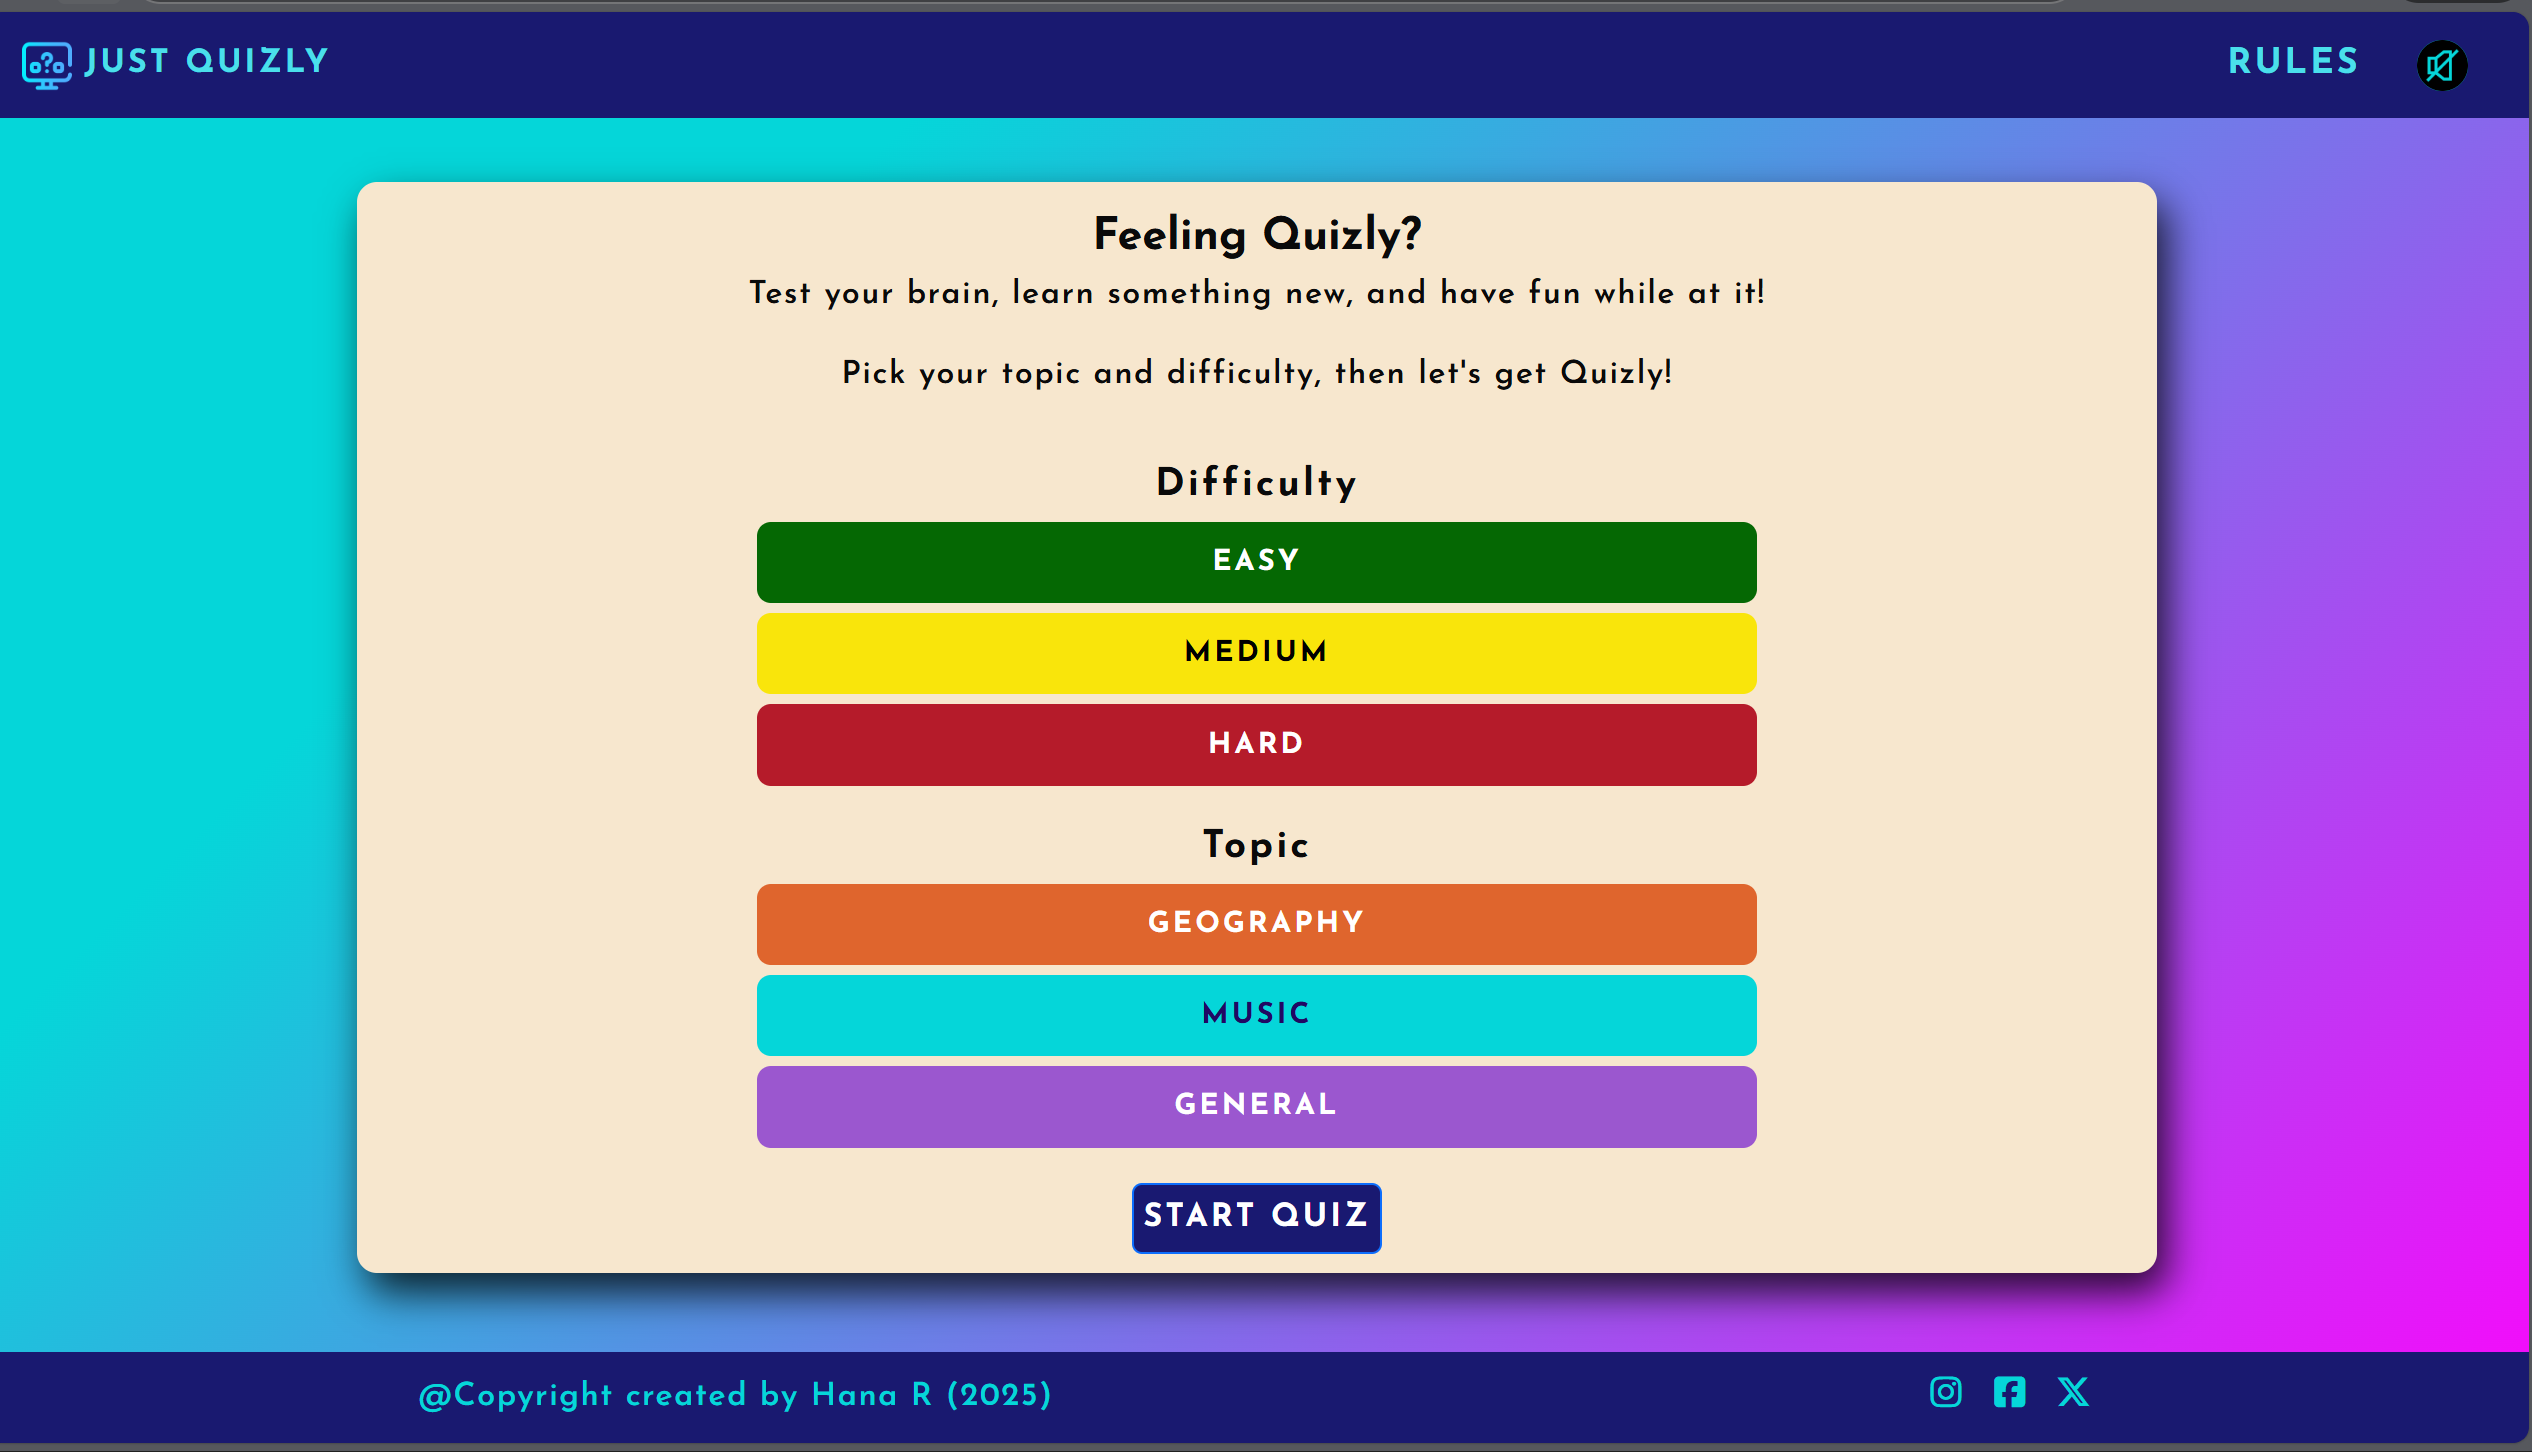
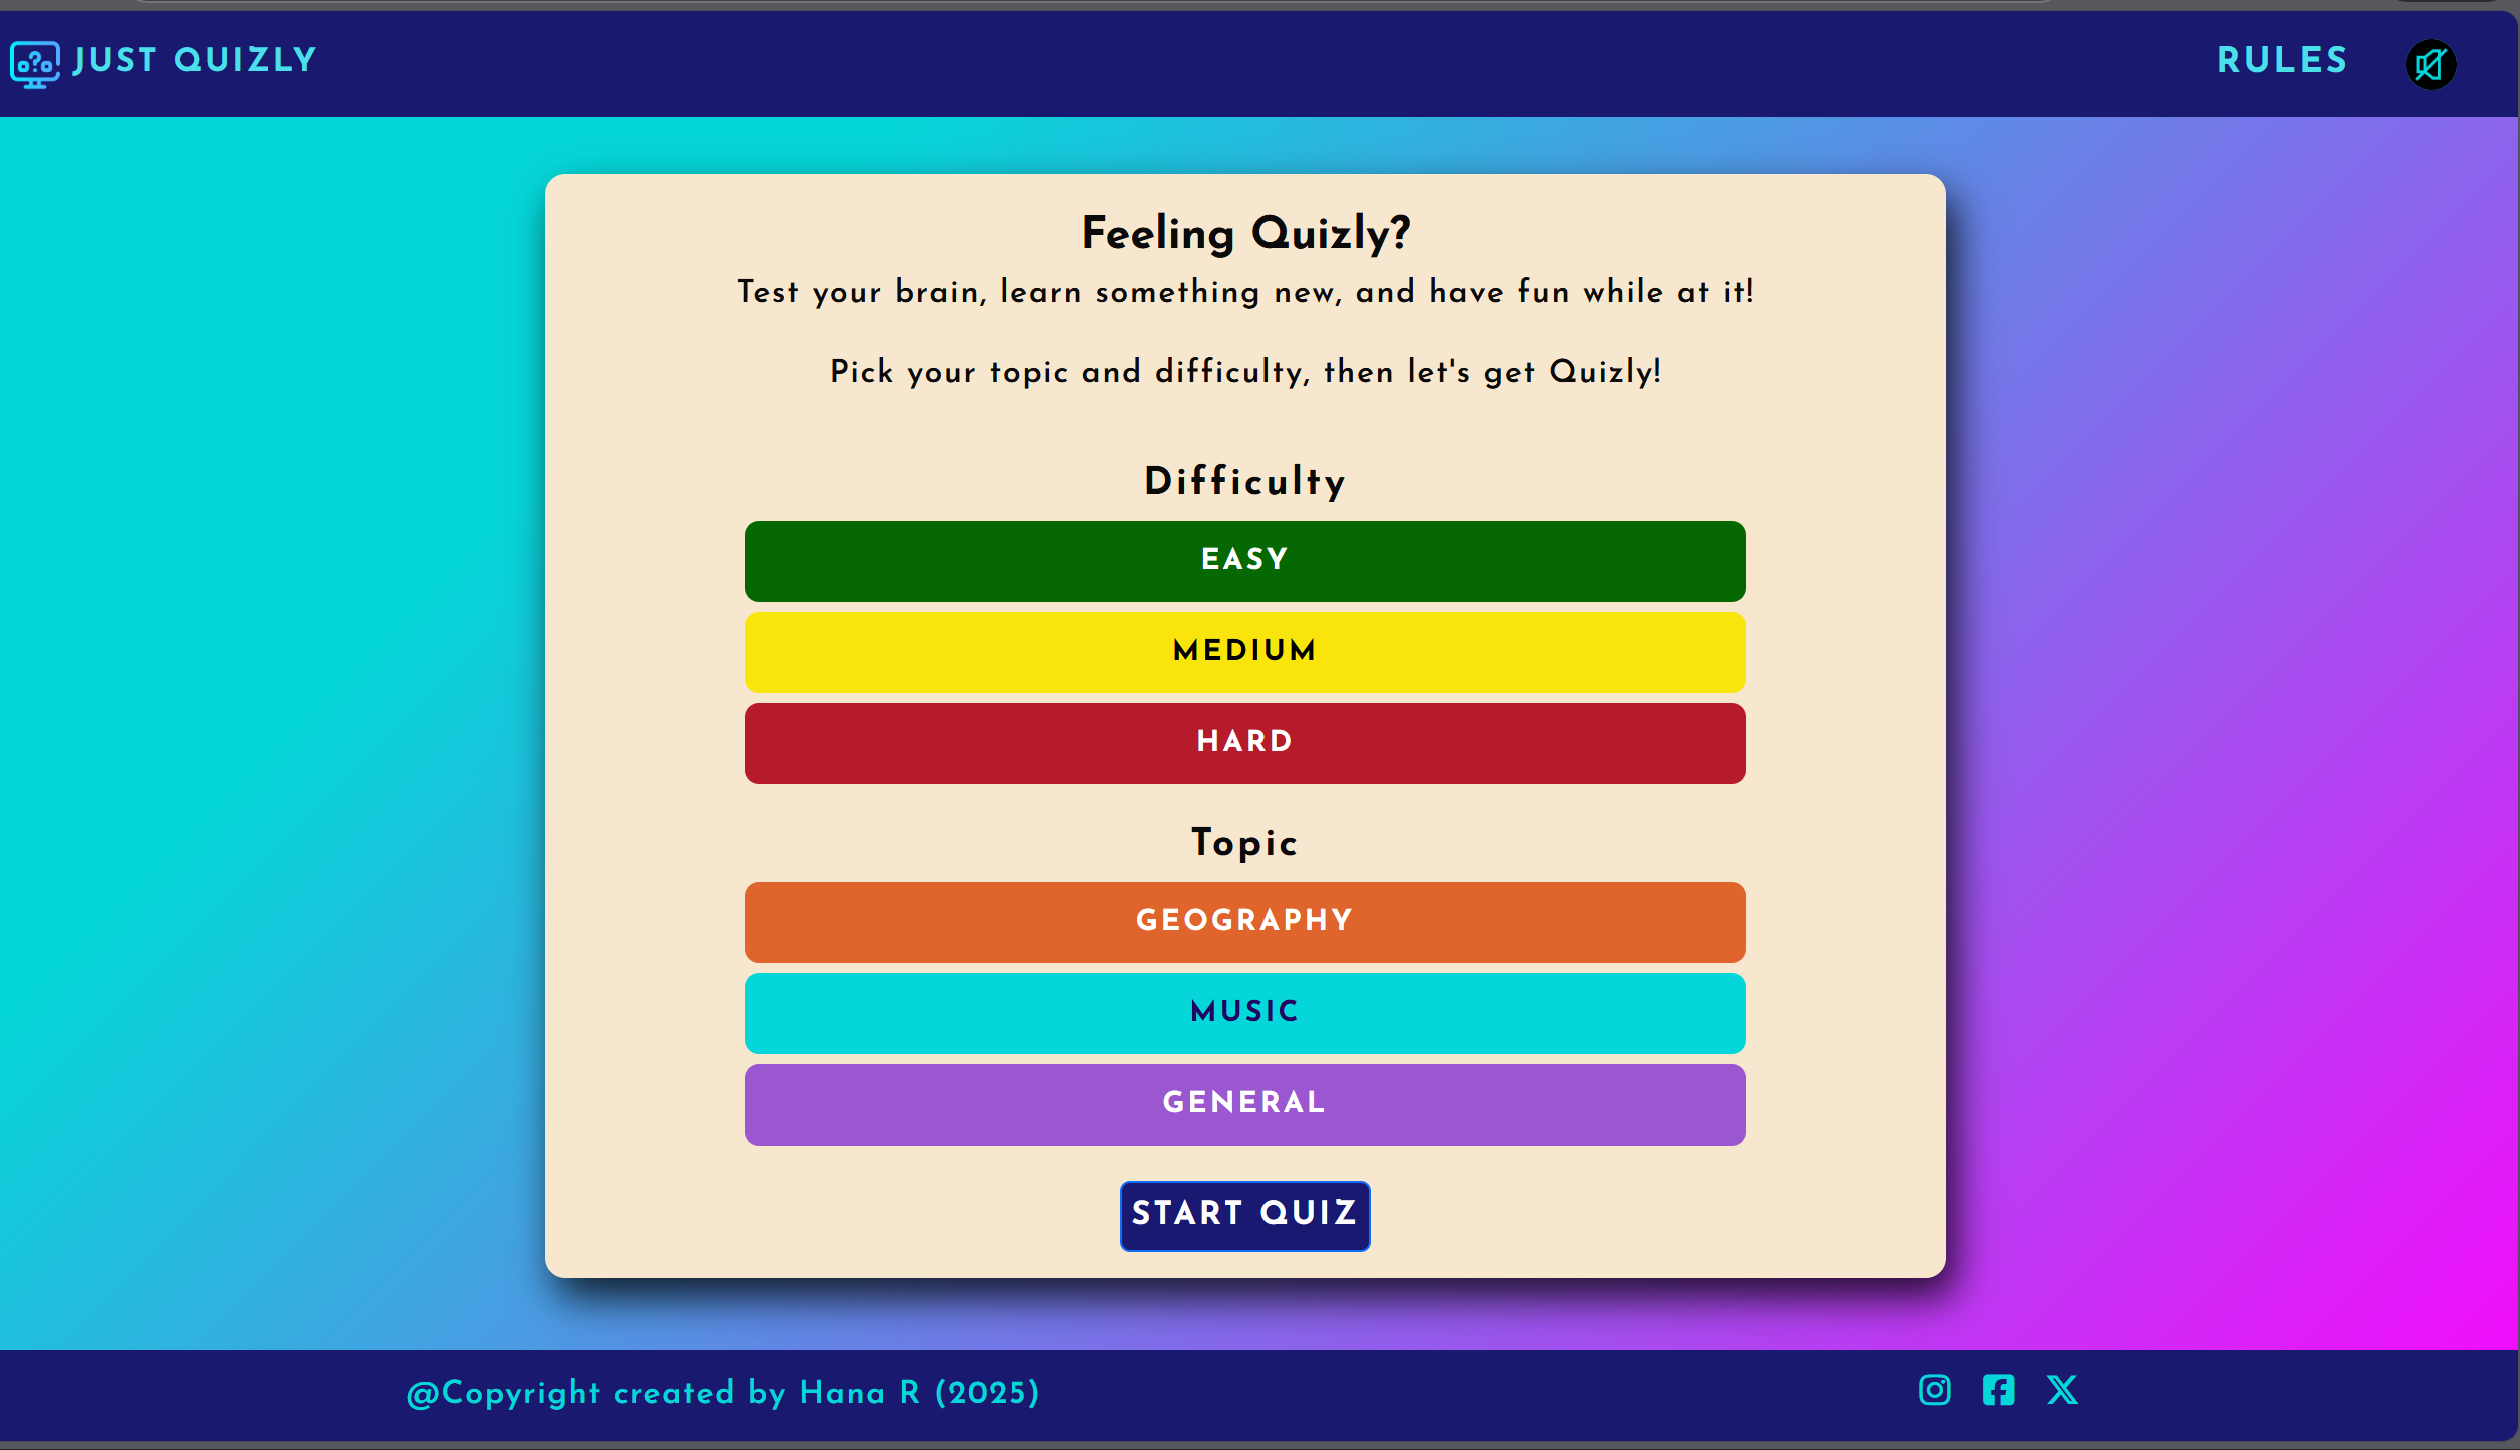
Add responsiveness screenshots for quiz page

diff --git a/assets/css/style.css b/assets/css/style.css
@@ -711,7 +711,7 @@ nav {
     margin: 0;
     width: 90%;
     flex-shrink: 1;
-    height: 80vh;
+    height: 70vh;
 
   }
 
@@ -870,7 +870,7 @@ nav {
   .custom-btn-answer{
     padding: 1rem;
     margin: 1rem auto;
-    max-width: 500px;
+    max-width: 400px;
   }
 
 .start-btn {
@@ -1000,13 +1000,9 @@ nav {
     font-size: 1.1rem;
     line-height: 1.8;
   
-    
-    
   }
 
-
   /* main page */
-
 
   .question-text {
     font-size: 1.5rem;
@@ -1025,18 +1021,14 @@ nav {
   .custom-btn-restart, .start-btn {
     font-size: 1rem;
 
-  
   }
-  .container {
-    padding: 1rem;
-  }
+
   .container-quiz, .start-screen, .container-end{
     
     max-width: 600px;
     width: 100%;
     padding: 0.6rem 0.9rem;
-    
-    
+     
   }
    .answers-container {
     display: grid;
@@ -1045,6 +1037,7 @@ nav {
     gap: 10px;
     
    }
+
  .custom-btn-answer {
   margin: 0 auto;
   width:100%;
@@ -1054,13 +1047,14 @@ nav {
  #mute-icon {
   width:1.6rem;
  }
+
  .navbar, .footer {
   padding: 0.4rem;
  }
 
  .container {
-  padding: 0.4rem;
-  max-width: 900px;
+  padding: 0.6rem 0;
+  max-width: 700px;
  }
 
  .start-screen h2 {
@@ -1146,10 +1140,10 @@ font-size: 1.3rem;
   width: 28px;
 }
 
-.quiz-info {
-  margin-bottom: 0;
-  padding-bottom: 0;
-  
+.question-text {
+  margin-bottom: 1rem;
+  padding-bottom: 1rem;
+  max-width: 700px;
 }
 
 .answers-container{
@@ -1157,8 +1151,8 @@ font-size: 1.3rem;
     flex-direction: column;  
     justify-content: center;
     align-items: center;
-    width: 80%;
-    height: 60vh;  
+    width: 90%;
+    height: auto;  
     padding: 0 0.6rem;
      
   }
@@ -1170,7 +1164,9 @@ font-size: 1.3rem;
   }
 .container-quiz, .container {
       width: 80%;
-      padding: 0.5rem 0; 
+      padding: 1.2rem 0; 
+      height: auto;
+      
      
   }
 
@@ -1190,7 +1186,7 @@ font-size: 1.3rem;
 }
 
 .quiz-info p {
-  margin: 0;
+  margin: 1.4rem;
   font-size: 1.3rem;
   font-weight: 600;
 

diff --git a/TESTING.md b/TESTING.md
@@ -123,7 +123,7 @@ I've tested my deployed project to check for responsiveness issues.
 | Page | Mobile | Tablet | Desktop | Notes |
 | --- | --- | --- | --- | --- |
 | Home | ![screenshot](documentation/responsiveness/screenshot-home-mobile.png) | ![screenshot](documentation/responsiveness/screenshot-home-tablet.png) | ![screenshot](documentation/responsiveness/screenshot-home-desktop.png) | Works as expected |
-| Quiz | ![screenshot](documentation/responsiveness/screenshot-mobile-quiz-page.png) | ![screenshot](documentation/responsiveness/tablet-game.png) | ![screenshot](documentation/responsiveness/desktop-game.png) | Works as expected |
+| Quiz | ![screenshot](documentation/responsiveness/screenshot-mobile-quiz-page.png) | ![screenshot](documentation/responsiveness/screenshot-tablet-quiz.png) | ![screenshot](documentation/responsiveness/screenshot-desktop-quiz-page.png) | Works as expected |
 | 404 | ![screenshot](documentation/responsiveness/mobile-404.png) | ![screenshot](documentation/responsiveness/tablet-404.png) | ![screenshot](documentation/responsiveness/desktop-404.png) | Works as expected |
 
 ## Browser Compatibility
